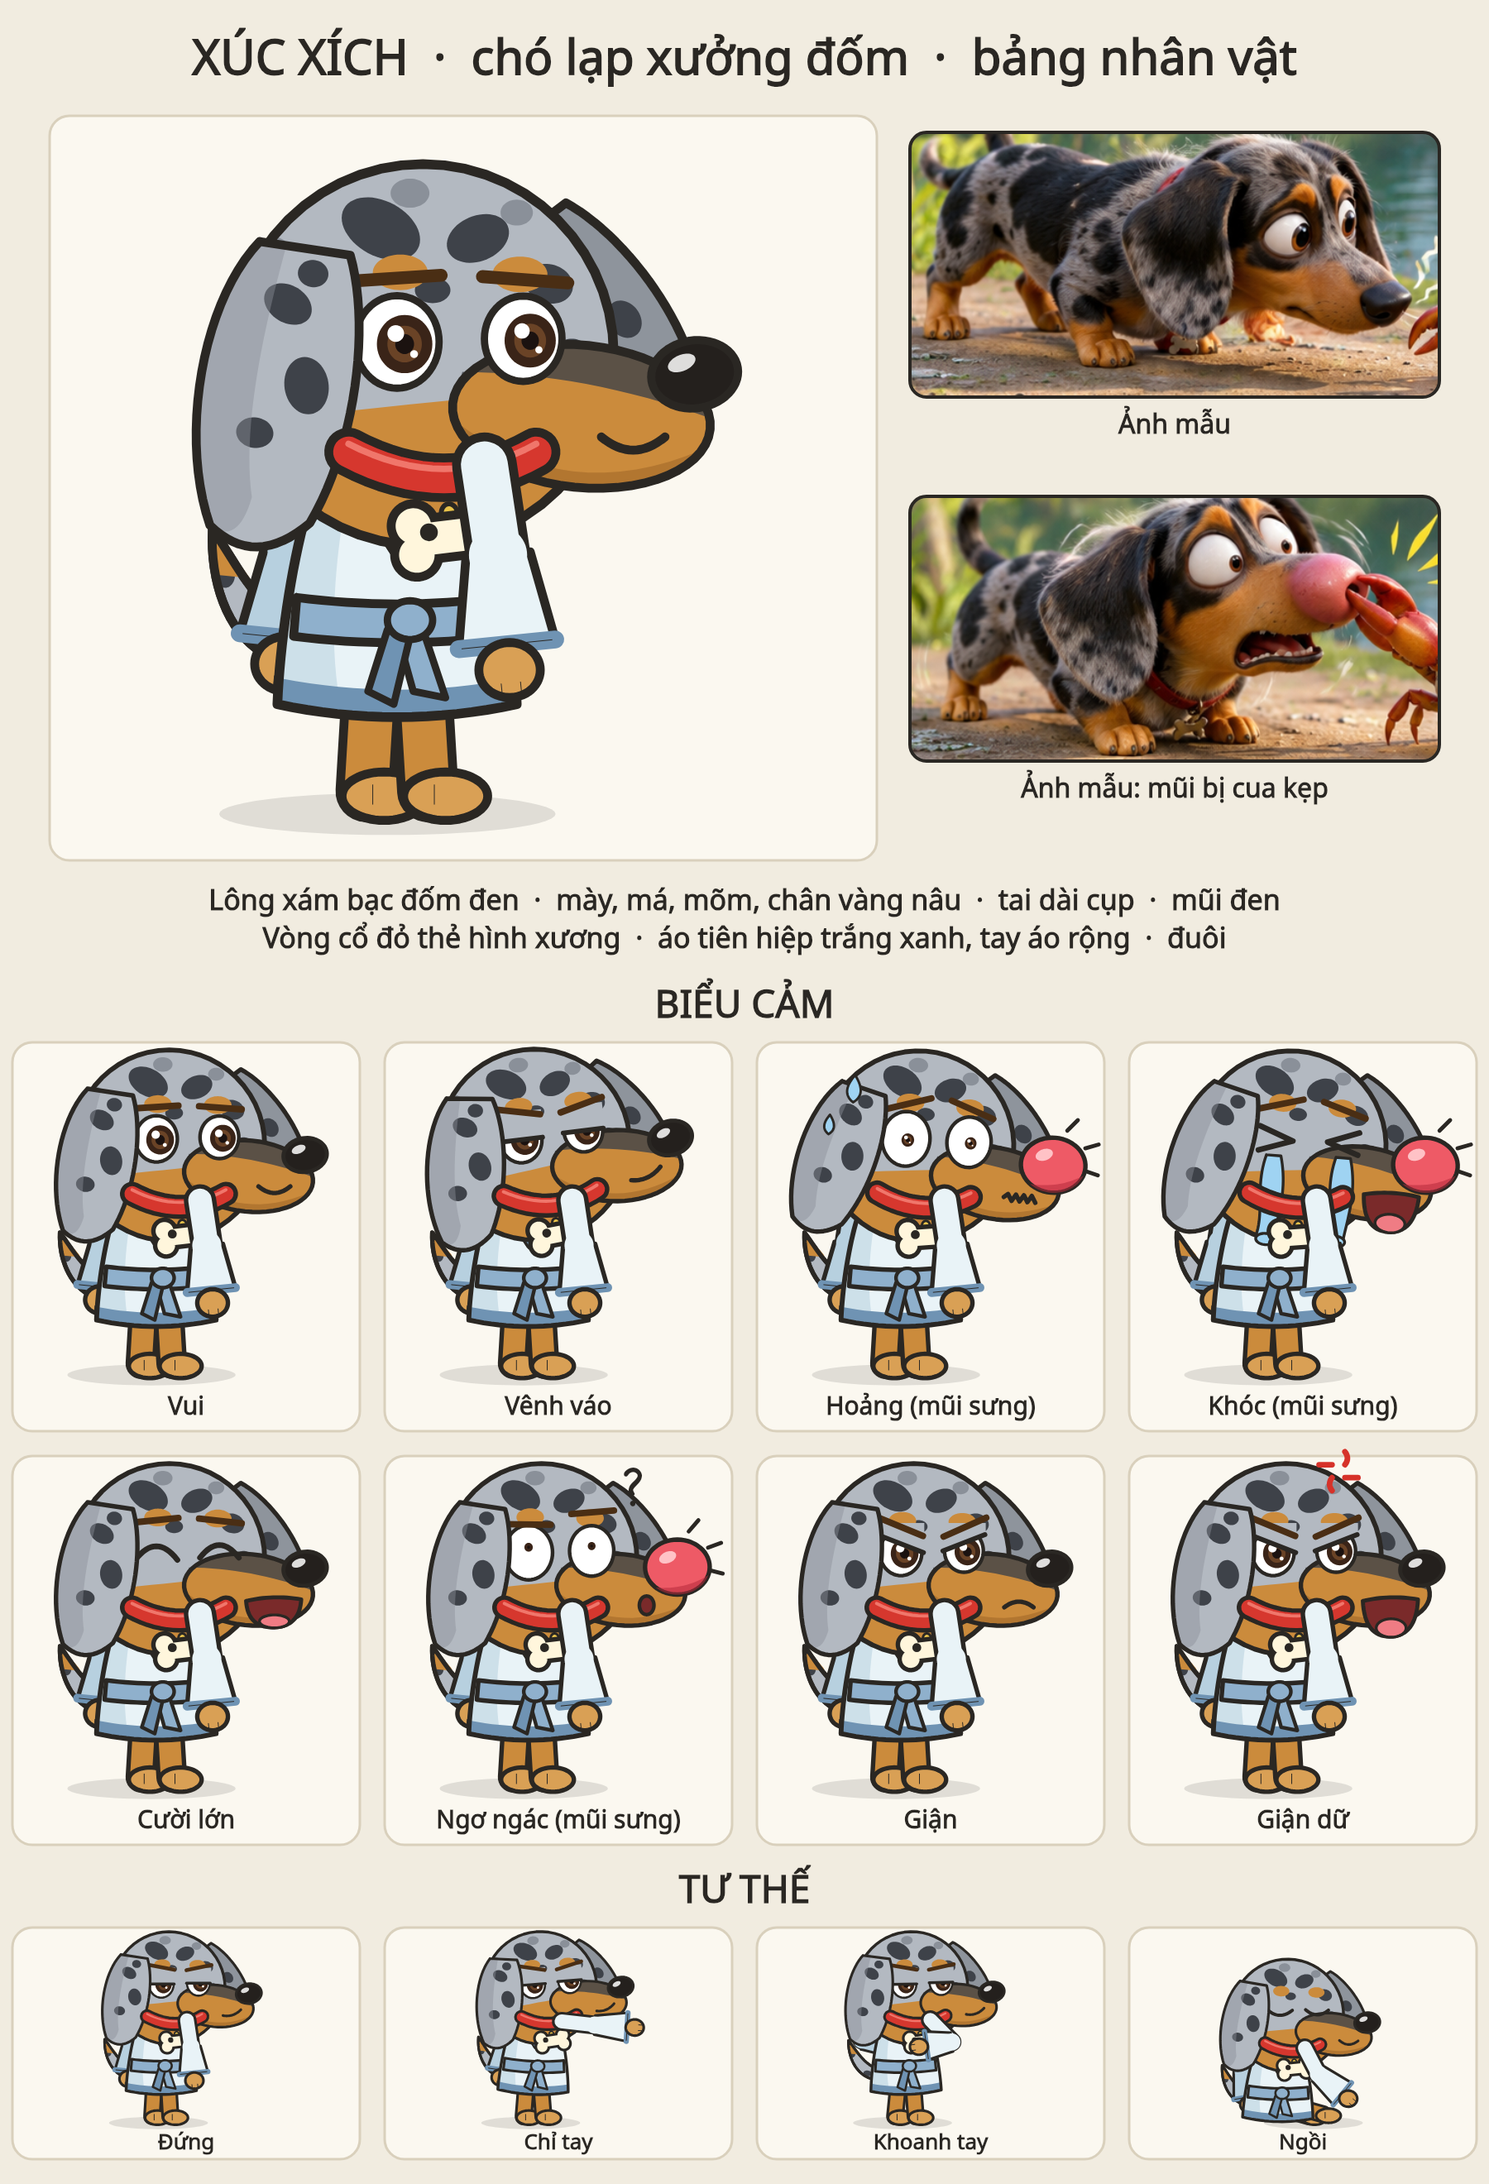
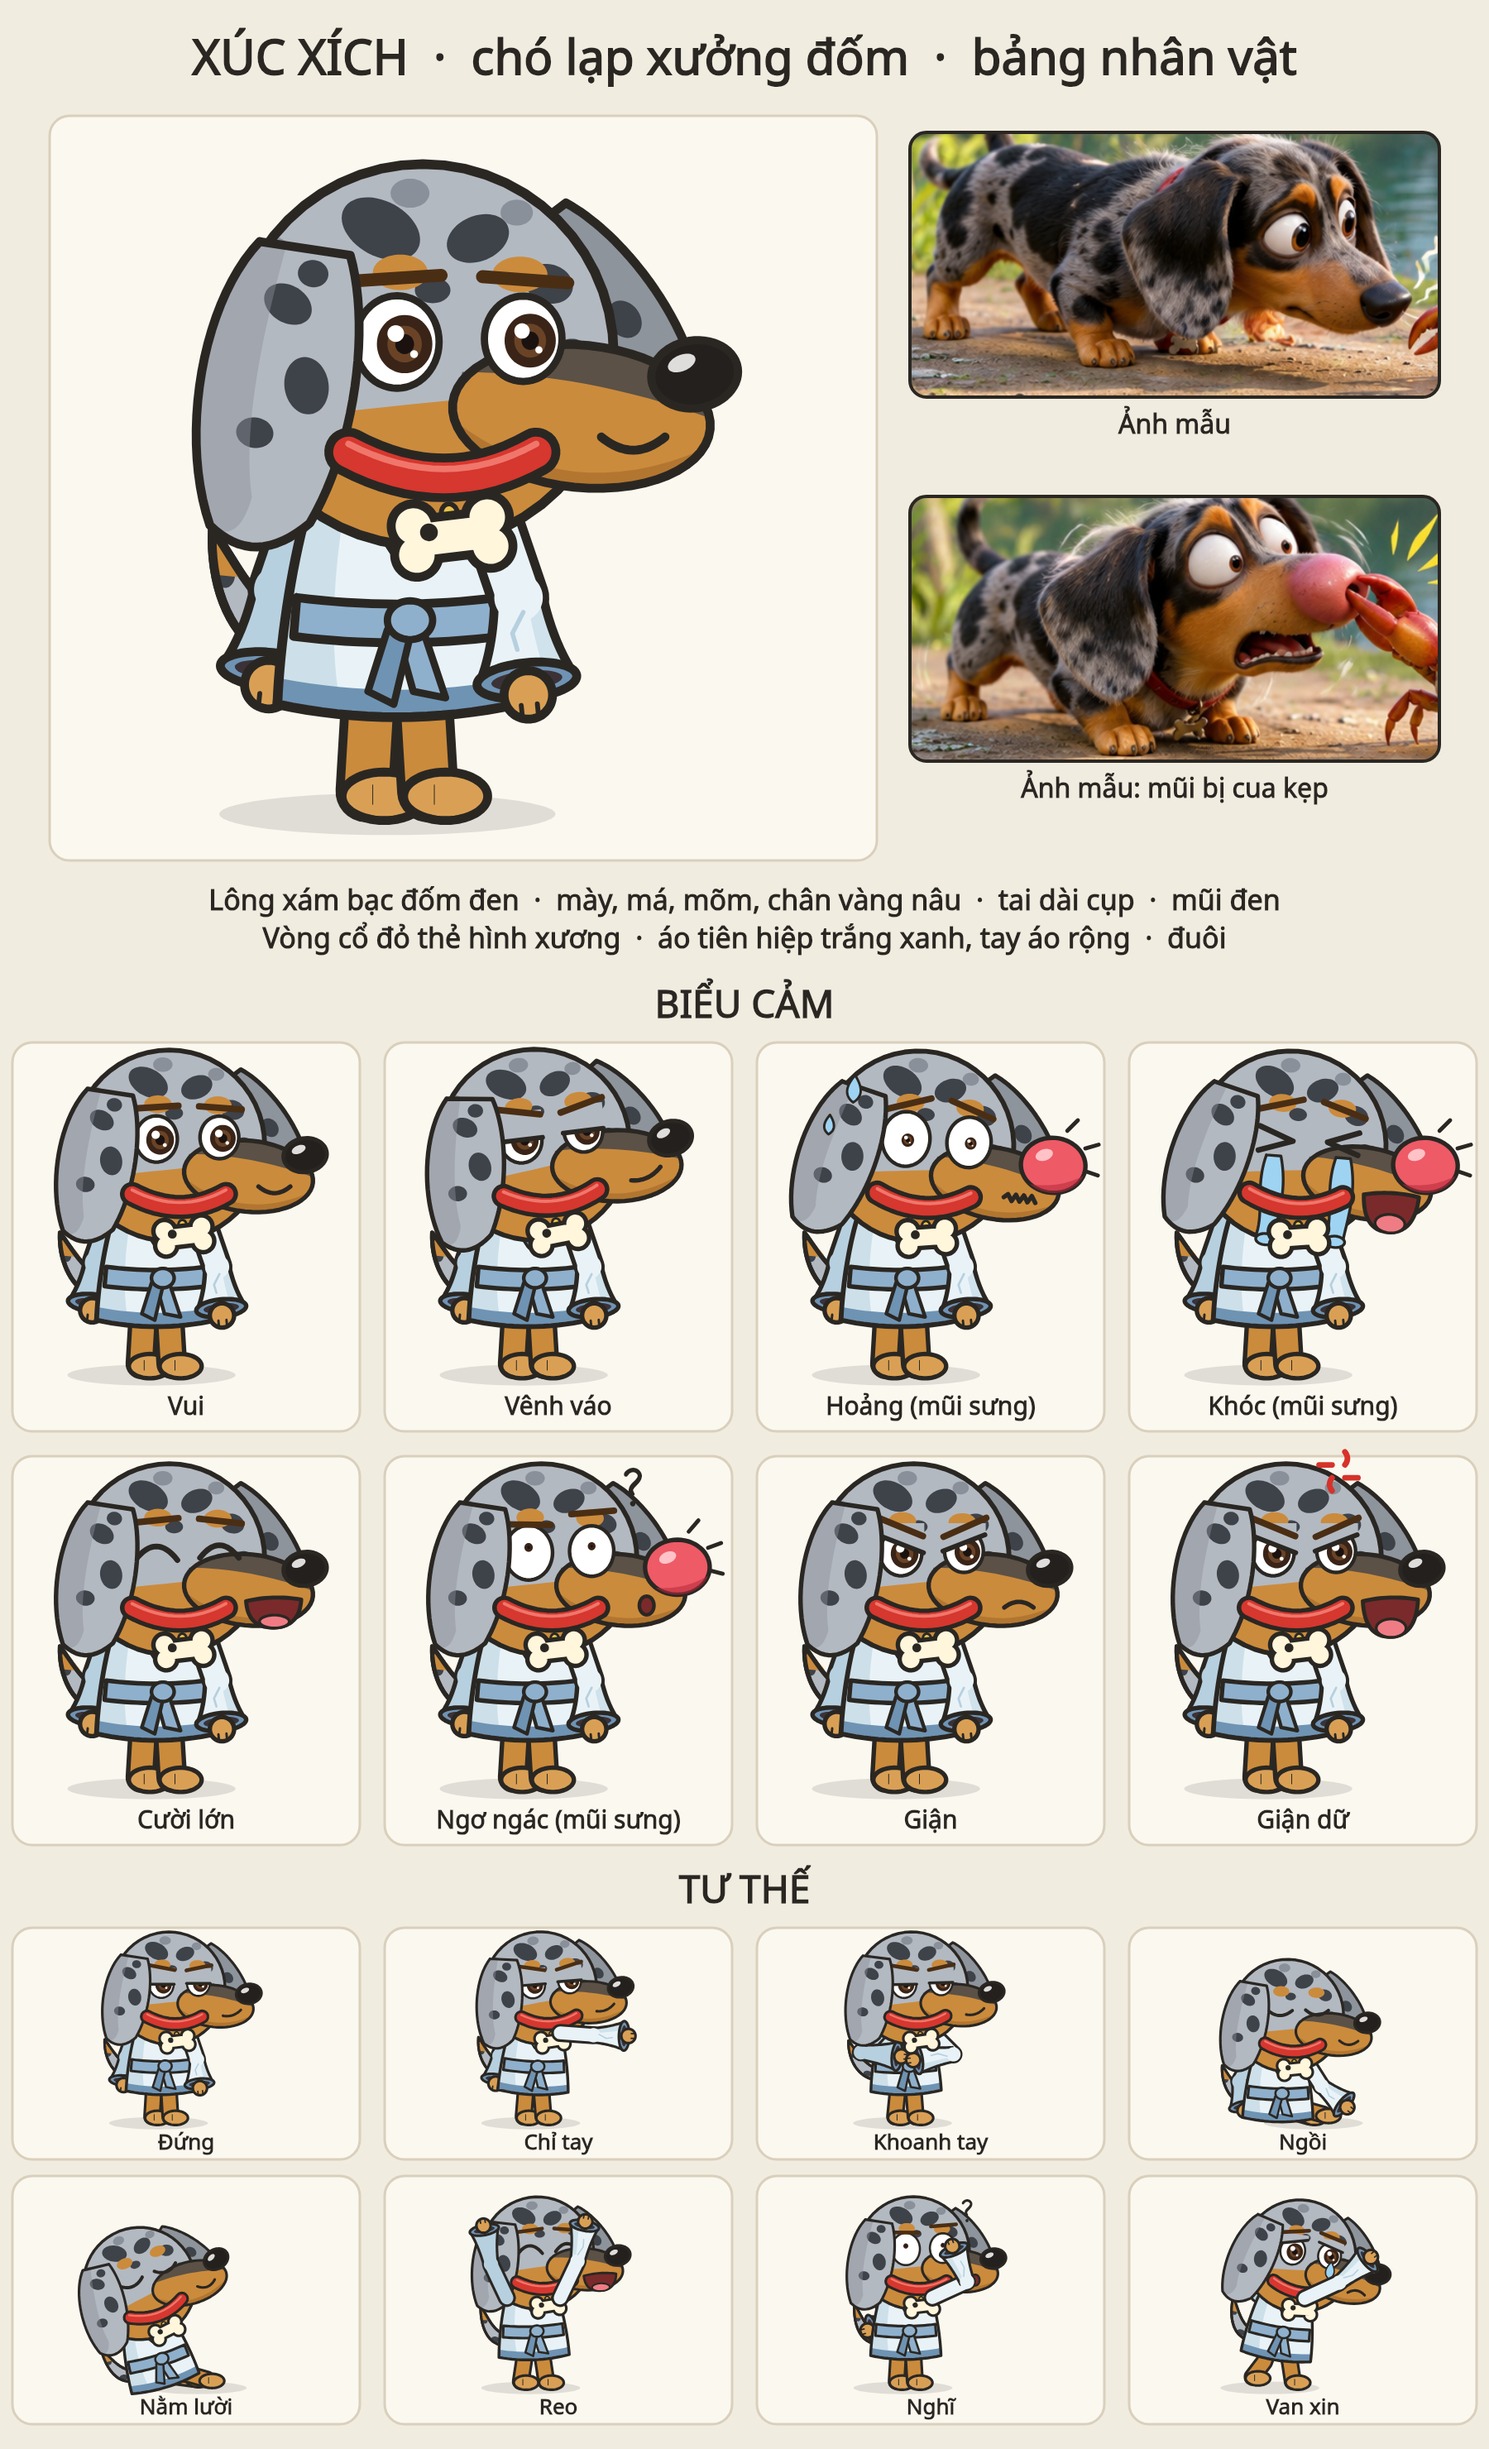
Họa sĩ: sửa tay áo con vật (buông tự nhiên, có khuỷu), render lại bảng nhân vật
Claude-Session: https://claude.ai/code/session_01LP61bp3EvBB82rbHM5VRDk

diff --git a/studio/engine/SCENE_FORMAT.md b/studio/engine/SCENE_FORMAT.md
@@ -136,7 +136,7 @@ Bổ sung v2 (Rùa và Thỏ):
 - `scale` 1,0 cao khoảng 470px (Xúc Xích rộng khoảng 480px vì mõm và đuôi); dùng 1,2 đến 1,5 cho cận cảnh khung 9:16. Nhân vật nhìn sang phải khi `facing: 1`.
 - `costume` (đặt ở `cast` hoặc ở element): `swollen: true` (chỉ Xúc Xích: mũi sưng đỏ bị cua kẹp, có vạch sưng), `prop` (`staff` gậy, `broom` chổi, `fan` quạt vàng, `null` bỏ vật mặc định của rùa và khỉ), `robe`, `robeShade`, `trim`, `sash`, `fur` (đổi màu áo, đai, lông).
 - Biểu cảm dùng chung `EXPR`; bổ sung v3: `cry` (khóc, hai dòng nước mắt), `laugh` (cười lớn), `dazed` (ngơ ngác, dấu ?), `proud` (vênh váo), `fury` (giận dữ, gân đỏ). Có sẵn cho cả con vật: `neutral happy grin determined angry shout scared surprised sad smug sly pain calm sleepy asleep yawn embarrassed`. Người que vẽ gần đúng các biểu cảm mới.
-- Tư thế bổ sung: `sit` (ngồi bệt), `lounge` (ngả lưng, tay gối đầu; đặt trước prop ghế). Tư thế có sẵn dùng được: `stand point crossed carry raise cheer scared bow think run (cycle) walk (cycle) ...`. Tay giơ cao tự dài ra khoảng 30% để không bị đầu to che.
+- Tư thế bổ sung: `sit` (ngồi bệt), `lounge` (ngả lưng, tay gối đầu; đặt trước prop ghế). Tư thế có sẵn dùng được: `stand point crossed carry raise cheer scared bow think run (cycle) walk (cycle) ...`. Tay áo có khuỷu hai đoạn, rộng dần về cổ tay, miệng tay áo hình elip và bàn tay tròn lộ ra. `stand`: hai tay buông chếch ra ngoài, không lên trước mặt. Tay giơ cao tự dài ra (tới 80%) và vẽ đè lên đầu; tay chỉ ra trước nằm dưới mõm; `crossed` khoanh trước bụng; `lounge` gác sau đầu (bị đầu che); `think` chạm cằm. Kiểm tra mọi tư thế: `art/pose-check.png`.
 - Cua: cặp càng giơ sẵn, `point`/`cheer` đưa càng ra hoặc lên; `cycle: walk` cho chân bò ngang. Mắt cuống, mày và miệng theo `expr`; `shout`/`angry` mở càng.
 - Xúc Xích có vòng cổ đỏ thẻ xương, đuôi vẫy theo `wind`; rùa mang mai; gà đuôi nhiều màu; khỉ có đuôi cuộn.
 - Bảng nhân vật tham khảo: `projects/su-ton-xuc-xich/art/` (`build-sheets.mjs` dựng lại các bảng).
